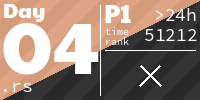
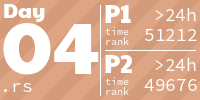
Tiles

diff --git a/README.md b/README.md
@@ -17,7 +17,7 @@
 ## Scores
 <!-- AOC TILES BEGIN -->
 <h1 align="center">
-  Advent of Code - 131/500 ⭐
+  Advent of Code - 132/500 ⭐
 </h1>
 <h1 align="center">
   2024 - 50 ⭐ - Rust
@@ -239,7 +239,7 @@
   <img src=".aoc_tiles/tiles/2019/01.png" width="161px">
 </a>
 <h1 align="center">
-  2015 - 7 ⭐ - Rust
+  2015 - 8 ⭐ - Rust
 </h1>
 <a href="aoc-2015/src/day1.rs">
   <img src=".aoc_tiles/tiles/2015/01.png" width="161px">
